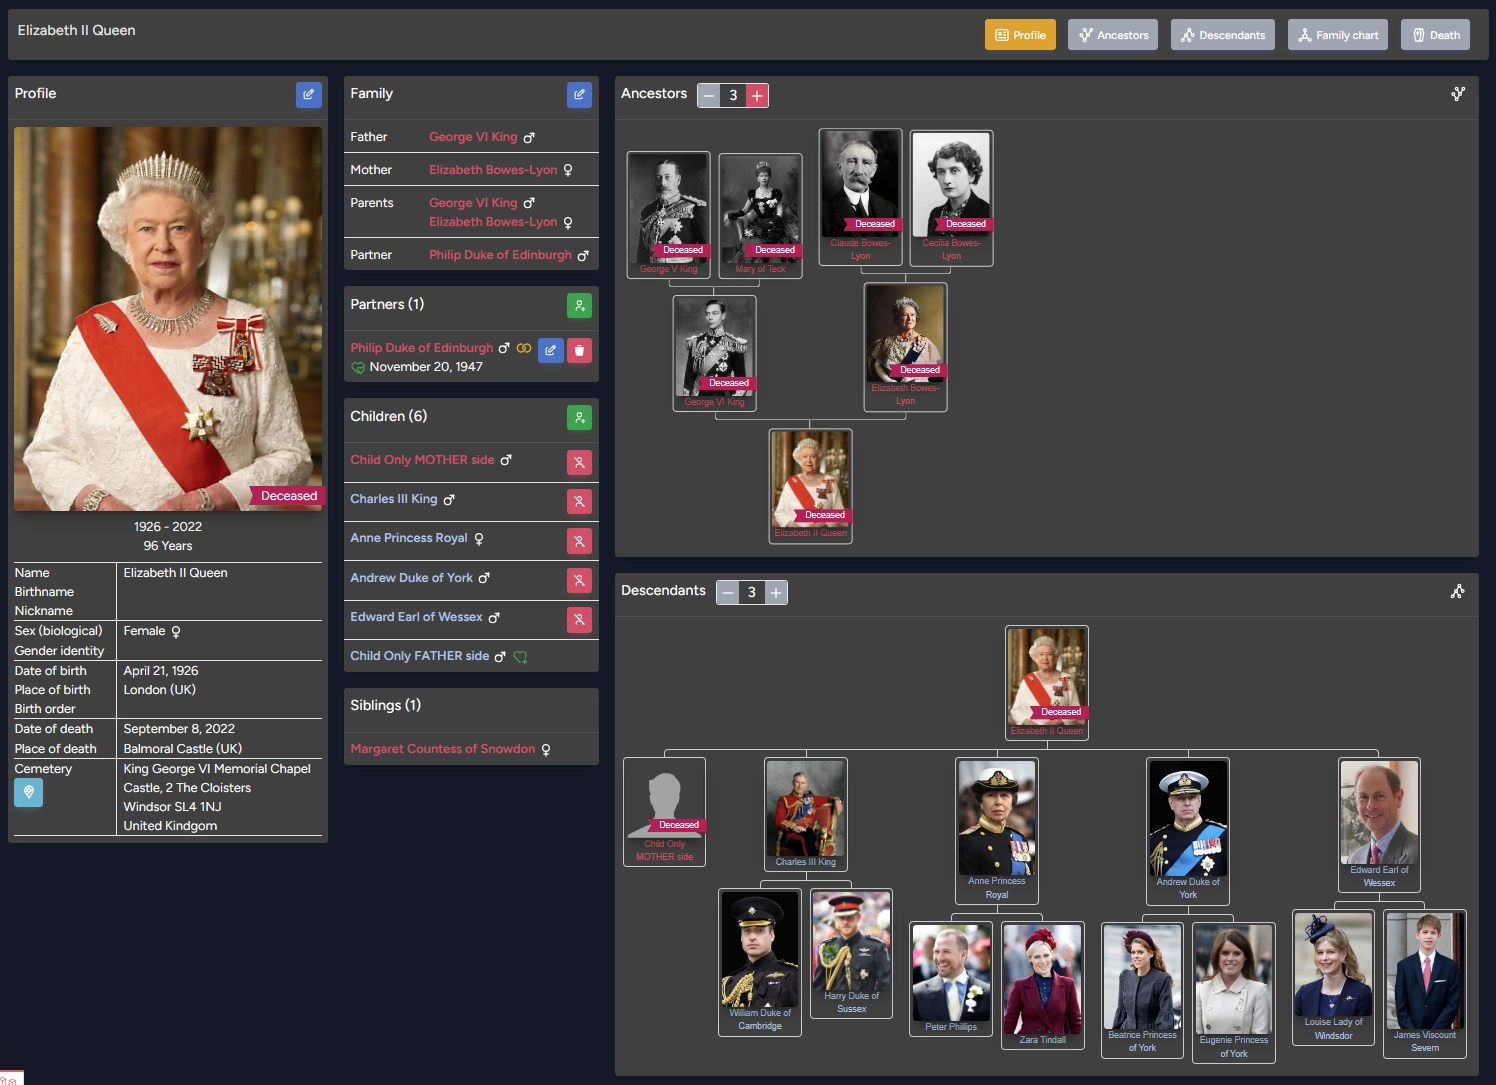
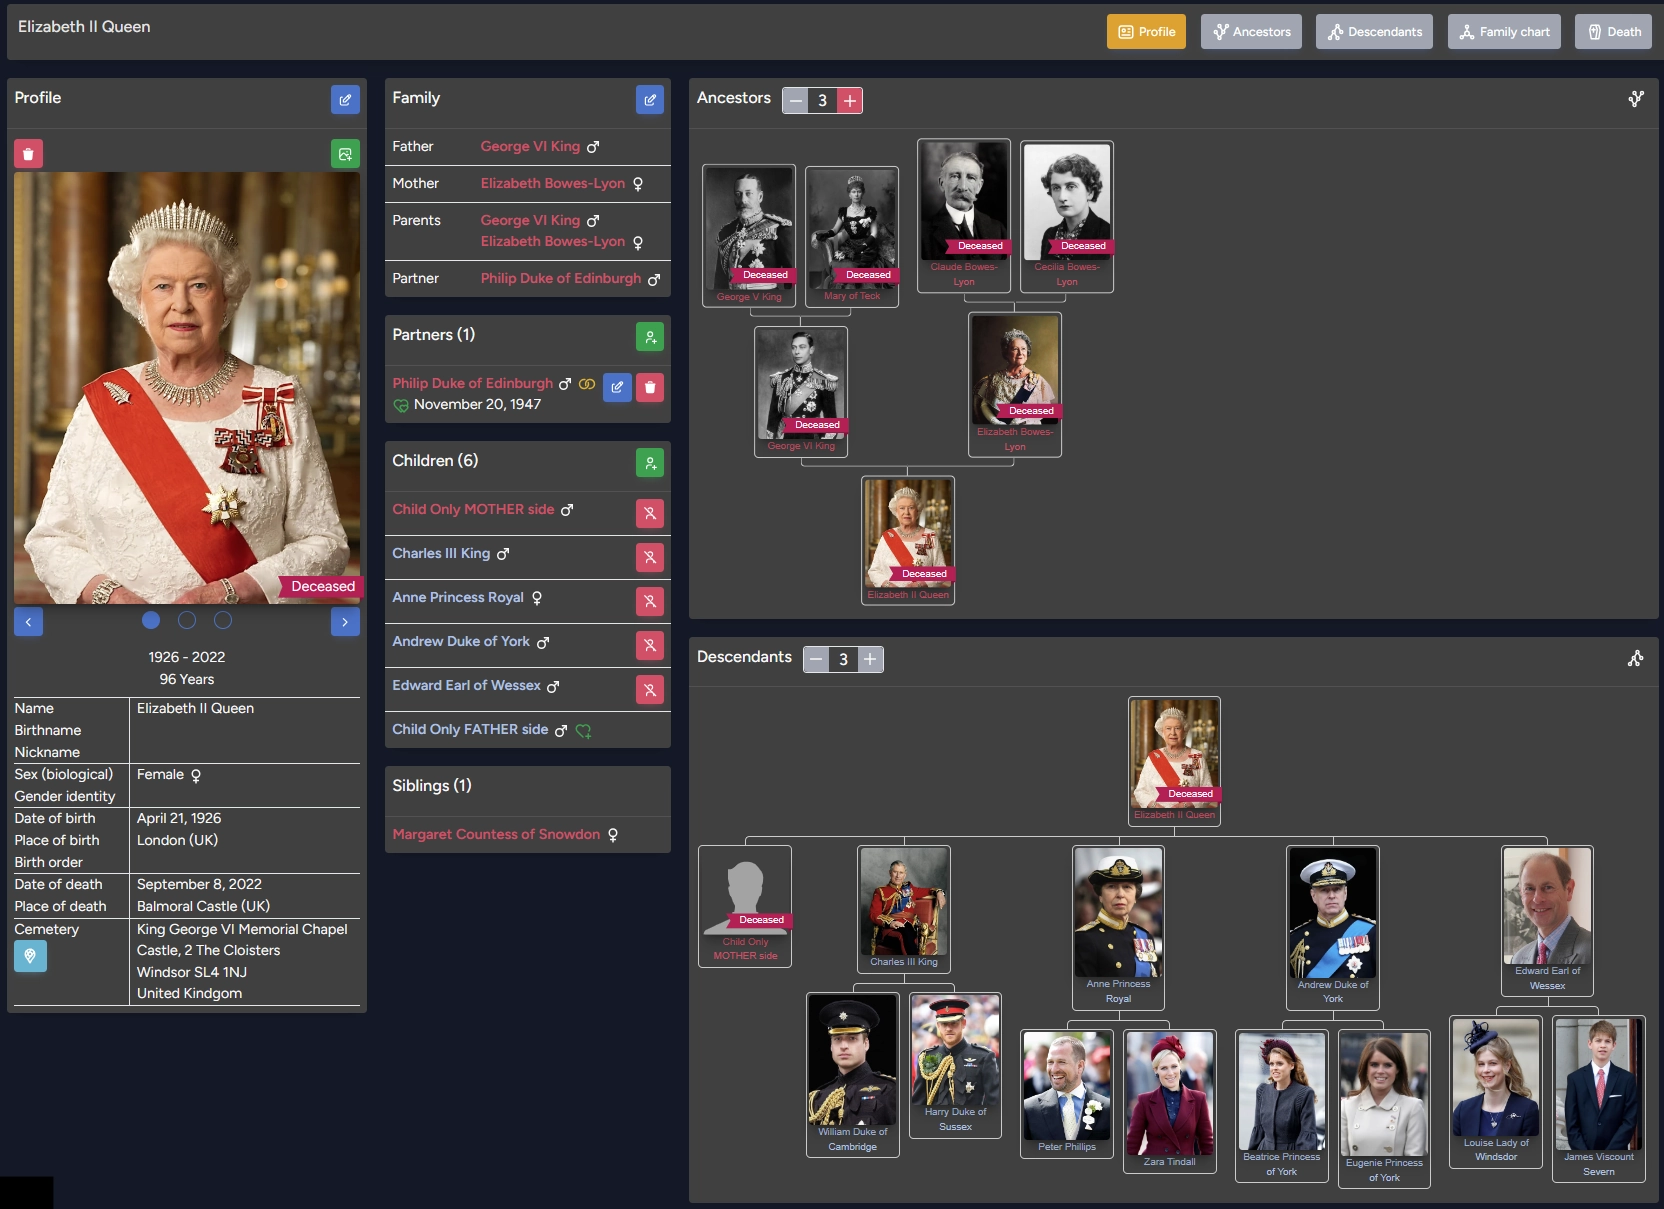
Installation

Changed region(s): [[0.0, 0.0, 1.0, 1.0], [0.2152, 0.6387, 0.369, 0.6995], [0.0, 0.9733, 0.0307, 1.0]]

diff --git a/resources/markdown/help.md b/resources/markdown/help.md
@@ -80,7 +80,7 @@ Authenticated users can only see persons and couples:
 
 <img src="https://genealogy.kreaweb.be/img/help/genealogy-001.webp" class="rounded" alt="Menu">
 
-After login and selecting the proper team, click on the <b>Search</b> button in the top navigation menu.
+After login and <span class="text-danger">selecting the proper team</span>, click on the <b>Search</b> button in the top navigation menu.
 
 <img src="https://genealogy.kreaweb.be/img/help/genealogy-010.webp" class="rounded" alt="Search">
 
@@ -95,6 +95,27 @@ The results are shown below the search box, each person is represented in one ca
 Click on the <b>Profile</b> or <b>Family chart</b> button to see details about that person.
 
 <hr />
+
+
+<!-- ---------------------------------------------------------------------------------- -->
+## 3. Adding persons
+
+After login and <span class="text-danger">selecting the proper team</span>, click on the <b>Search</b> button in the top navigation menu.
+
+<img src="https://genealogy.kreaweb.be/img/help/genealogy-001.webp" class="rounded" alt="Search">
+
+You can add new person by clinking the <b>Add person</b> button above the search bar.
+
+<img src="https://genealogy.kreaweb.be/img/help/genealogy-010.webp" class="rounded" alt="Add person">
+<img src="https://genealogy.kreaweb.be/img/help/genealogy-011.webp" class="rounded" alt="Add person">
+
+Another way to add people is to click on the <b>Add child</b> button on the <b>Children</b> tab of an existing person.
+
+<img src="https://genealogy.kreaweb.be/img/help/genealogy-050.webp" class="rounded" alt="Children">
+<img src="https://genealogy.kreaweb.be/img/help/genealogy-051.webp" class="rounded" alt="Add child">
+
+<hr />
+
 
 <!-- ---------------------------------------------------------------------------------- -->
 ## 4. Persons and relationships
@@ -117,14 +138,26 @@ Notice this card shows different data for living and deceased persons.
 
 <img src="https://genealogy.kreaweb.be/img/help/genealogy-022b.webp" class="rounded" alt="Profile living">
 
-You can edit the profile data by clicking the blue <b>Edit</b> button in the card header.
+You can edit the profile, contact and death data by clicking the blue <b>Edit</b> button in the card header.
 
 <img src="https://genealogy.kreaweb.be/img/help/genealogy-023.webp" class="rounded" alt="Profile edit">
 <img src="https://genealogy.kreaweb.be/img/help/genealogy-024.webp" class="rounded" alt="Profile edit profile">
+
+The image uploaded in the <b>Edit profile</b> form, will be the <b>primary photo</b> for the selected person.
+
 <img src="https://genealogy.kreaweb.be/img/help/genealogy-025.webp" class="rounded" alt="Profile edit contact">
 <img src="https://genealogy.kreaweb.be/img/help/genealogy-026.webp" class="rounded" alt="Profile edit death">
 
-### b. Family
+### b. Photos
+
+<img src="https://genealogy.kreaweb.be/img/help/genealogy-022c.webp" class="rounded" alt="Photo editing">
+
+You can browse through the available photos by using the navigation bar below the photo carousel.<br/>
+You can <b>add</b> or <b>delete</b> photos using the buttons above the photo carousel.
+
+<img src="https://genealogy.kreaweb.be/img/help/genealogy-027.webp" class="rounded" alt="Photo add">
+
+### c. Family
 
 The <b>Family</b> card shows the persons parents and the current partner.
 
@@ -134,7 +167,7 @@ You can edit the family data by clicking the blue <b>Edit</b> button in the card
 
 <img src="https://genealogy.kreaweb.be/img/help/genealogy-034.webp" class="rounded" alt="Family edit">
 
-### c. Partners (Couples)
+### d. Partners (Couples)
 
 <img src="https://genealogy.kreaweb.be/img/help/genealogy-040.webp" class="rounded" alt="Partners">
 
@@ -145,7 +178,7 @@ You can delete a relationship by clicking the red <b>Delete</b> button in the re
 <img src="https://genealogy.kreaweb.be/img/help/genealogy-041.webp" class="rounded" alt="Partners add">
 <img src="https://genealogy.kreaweb.be/img/help/genealogy-042.webp" class="rounded" alt="Partners edit">
 
-### d. Children
+### e. Children
 
 <img src="https://genealogy.kreaweb.be/img/help/genealogy-050.webp" class="rounded" alt="Children">
 
@@ -155,7 +188,9 @@ The deleted child will remain in the database as a person but just not have the 
 
 <img src="https://genealogy.kreaweb.be/img/help/genealogy-051.webp" class="rounded" alt="Partners add">
 
-### e. Siblings
+When adding a child you can either create a brand <b>new person</b> or select an <b>existing person</b>.
+
+### f. Siblings
 
 Siblings are shown on the siblings card.<br/>
 
@@ -165,21 +200,21 @@ A sibling can be <b>full</b>: both the same biological parents as the selected p
 A sibling can be <b>half</b>: only the biological mother or the biological father are common.<br/>
 A sibling can be <b>plus</b>: neither the biological father nor the biological mother are common, but the child is part of the current relationship of the slected person
 
-### f. Ancestors
+### g. Ancestors
 
 This shows the selected persons ancestors.<br/>
 You can change the tree level by using the control in the card header.
 
 <img src="https://genealogy.kreaweb.be/img/help/genealogy-070.webp" class="rounded" alt="Ancestors">
 
-### g. Descendants
+### h. Descendants
 
 This shows the selected persons descendants.<br/>
 You can change the tree level by using the control in the card header.
 
 <img src="https://genealogy.kreaweb.be/img/help/genealogy-071.webp" class="rounded" alt="Descendants">
 
-### h. Family chart
+### i. Family chart
 
 This shows the compleet family chart, 3 generations deep.
 
@@ -200,6 +235,7 @@ This shows the upcomming birthdays.
 <img src="https://genealogy.kreaweb.be/img/help/genealogy-080.webp" class="rounded" alt="Birthdays">
 
 <hr />
+
 
 <!-- ---------------------------------------------------------------------------------- -->
 ## 6. Offcanvas menu 
@@ -242,6 +278,7 @@ The <b>Dependencies</b> menu item allows <b>developers</b> to consult the applic
 
 <hr />
 
+
 <!-- ---------------------------------------------------------------------------------- -->
 ## 7. Language
 
@@ -260,6 +297,7 @@ The selected language is saved in the database for further use.
 <img src="https://genealogy.kreaweb.be/img/help/genealogy-002d.webp" class="rounded" alt="Profile editor">
 
 <hr />
+
 
 <!-- ---------------------------------------------------------------------------------- -->
 ## 8. Color theme
